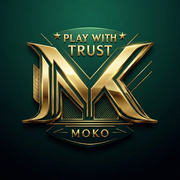
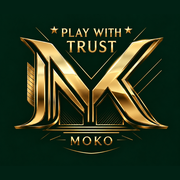
feat: 全18ページのロゴを正式コーポレートロゴ（2026-10-13 版）に差し替え
- ヘッダー左上のロゴを深緑背景版（logo-2026-10.webp）に変更
- 下層ページ題字帯のエンブレムを透過版（logo-mark-2026-10.webp）に変更
- 検索エンジン向け Organization の logo を logo-2026-10.png に更新
- favicon（48/96/192・ico）と apple-touch-icon を正式ロゴから再生成
- 旧ロゴ画像は参照を外して残置（画像の差し替え方針に従う）

diff --git a/index.html b/index.html
@@ -42,7 +42,7 @@
         "@id": "https://www.nishinomiyamoko.net/#organization",
         "name": "株式会社西宮モコ",
         "url": "https://www.nishinomiyamoko.net/",
-        "logo": "https://www.nishinomiyamoko.net/assets/img/logo-2026-09.png",
+        "logo": "https://www.nishinomiyamoko.net/assets/img/logo-2026-10.png",
         "description": "神戸市北区でパチンコホール2店舗（モコ鈴蘭台店・モコ田尾寺店）を運営。店舗を地域の防災拠点として運用し、データに基づく次世代のホール経営に取り組む。",
         "foundingDate": "1986-10-01",
         "address": {
@@ -77,7 +77,7 @@
     <!-- Header -->
     <header class="header">
         <div class="header-container">
-            <div class="logo"><a href="/"><img width="240" height="240" src="/assets/img/logo-2026-09.webp" alt="株式会社西宮モコ"></a>
+            <div class="logo"><a href="/"><img width="360" height="304" src="/assets/img/logo-2026-10.webp" alt="株式会社西宮モコ"></a>
                 <!-- 公式Xボタン（公開予約 x500 に連動。日時は /assets/js/main.js の PUBLISH_SCHEDULE で管理） -->
                 <a class="x-link" href="https://x.com/mokosuzurandai" target="_blank" rel="noopener noreferrer" aria-label="Xで最新情報（モコ鈴蘭台の公式X・新しいタブで開く）" hidden data-publish="x500"><svg class="x-link-logo" viewBox="0 0 24 24" aria-hidden="true" focusable="false"><path d="M18.244 2.25h3.308l-7.227 8.26 8.502 11.24H16.17l-5.214-6.817L4.99 21.75H1.68l7.73-8.835L1.254 2.25H8.08l4.713 6.231zm-1.161 17.52h1.833L7.084 4.126H5.117z"/></svg><span class="x-link-text">Xで最新情報</span></a>
             </div>

diff --git a/company/index.html b/company/index.html
@@ -39,7 +39,7 @@
         "@id": "https://www.nishinomiyamoko.net/#organization",
         "name": "株式会社西宮モコ",
         "url": "https://www.nishinomiyamoko.net/",
-        "logo": "https://www.nishinomiyamoko.net/assets/img/logo-2026-09.png",
+        "logo": "https://www.nishinomiyamoko.net/assets/img/logo-2026-10.png",
         "image": "https://www.nishinomiyamoko.net/assets/img/ogp-2026-09b.jpg",
         "foundingDate": "1986-10-01",
         "numberOfEmployees": { "@type": "QuantitativeValue", "value": 45 },
@@ -72,7 +72,7 @@
     <!-- Header -->
     <header class="header">
         <div class="header-container">
-            <div class="logo"><a href="/"><img width="240" height="240" src="/assets/img/logo-2026-09.webp" alt="株式会社西宮モコ"></a>
+            <div class="logo"><a href="/"><img width="360" height="304" src="/assets/img/logo-2026-10.webp" alt="株式会社西宮モコ"></a>
                 <!-- 公式Xボタン（公開予約 x500 に連動。日時は /assets/js/main.js の PUBLISH_SCHEDULE で管理） -->
                 <a class="x-link" href="https://x.com/mokosuzurandai" target="_blank" rel="noopener noreferrer" aria-label="Xで最新情報（モコ鈴蘭台の公式X・新しいタブで開く）" hidden data-publish="x500"><svg class="x-link-logo" viewBox="0 0 24 24" aria-hidden="true" focusable="false"><path d="M18.244 2.25h3.308l-7.227 8.26 8.502 11.24H16.17l-5.214-6.817L4.99 21.75H1.68l7.73-8.835L1.254 2.25H8.08l4.713 6.231zm-1.161 17.52h1.833L7.084 4.126H5.117z"/></svg><span class="x-link-text">Xで最新情報</span></a>
             </div>

diff --git a/about/index.html b/about/index.html
@@ -61,7 +61,7 @@
     <!-- Header -->
     <header class="header">
         <div class="header-container">
-            <div class="logo"><a href="/"><img width="240" height="240" src="/assets/img/logo-2026-09.webp" alt="株式会社西宮モコ"></a>
+            <div class="logo"><a href="/"><img width="360" height="304" src="/assets/img/logo-2026-10.webp" alt="株式会社西宮モコ"></a>
                 <!-- 公式Xボタン（公開予約 x500 に連動。日時は /assets/js/main.js の PUBLISH_SCHEDULE で管理） -->
                 <a class="x-link" href="https://x.com/mokosuzurandai" target="_blank" rel="noopener noreferrer" aria-label="Xで最新情報（モコ鈴蘭台の公式X・新しいタブで開く）" hidden data-publish="x500"><svg class="x-link-logo" viewBox="0 0 24 24" aria-hidden="true" focusable="false"><path d="M18.244 2.25h3.308l-7.227 8.26 8.502 11.24H16.17l-5.214-6.817L4.99 21.75H1.68l7.73-8.835L1.254 2.25H8.08l4.713 6.231zm-1.161 17.52h1.833L7.084 4.126H5.117z"/></svg><span class="x-link-text">Xで最新情報</span></a>
             </div>

diff --git a/business/index.html b/business/index.html
@@ -50,7 +50,7 @@
     <!-- Header -->
     <header class="header">
         <div class="header-container">
-            <div class="logo"><a href="/"><img width="240" height="240" src="/assets/img/logo-2026-09.webp" alt="株式会社西宮モコ"></a>
+            <div class="logo"><a href="/"><img width="360" height="304" src="/assets/img/logo-2026-10.webp" alt="株式会社西宮モコ"></a>
                 <!-- 公式Xボタン（公開予約 x500 に連動。日時は /assets/js/main.js の PUBLISH_SCHEDULE で管理） -->
                 <a class="x-link" href="https://x.com/mokosuzurandai" target="_blank" rel="noopener noreferrer" aria-label="Xで最新情報（モコ鈴蘭台の公式X・新しいタブで開く）" hidden data-publish="x500"><svg class="x-link-logo" viewBox="0 0 24 24" aria-hidden="true" focusable="false"><path d="M18.244 2.25h3.308l-7.227 8.26 8.502 11.24H16.17l-5.214-6.817L4.99 21.75H1.68l7.73-8.835L1.254 2.25H8.08l4.713 6.231zm-1.161 17.52h1.833L7.084 4.126H5.117z"/></svg><span class="x-link-text">Xで最新情報</span></a>
             </div>

diff --git a/community-disaster/index.html b/community-disaster/index.html
@@ -51,7 +51,7 @@
     <!-- Header -->
     <header class="header">
         <div class="header-container">
-            <div class="logo"><a href="/"><img width="240" height="240" src="/assets/img/logo-2026-09.webp" alt="株式会社西宮モコ"></a>
+            <div class="logo"><a href="/"><img width="360" height="304" src="/assets/img/logo-2026-10.webp" alt="株式会社西宮モコ"></a>
                 <!-- 公式Xボタン（公開予約 x500 に連動。日時は /assets/js/main.js の PUBLISH_SCHEDULE で管理） -->
                 <a class="x-link" href="https://x.com/mokosuzurandai" target="_blank" rel="noopener noreferrer" aria-label="Xで最新情報（モコ鈴蘭台の公式X・新しいタブで開く）" hidden data-publish="x500"><svg class="x-link-logo" viewBox="0 0 24 24" aria-hidden="true" focusable="false"><path d="M18.244 2.25h3.308l-7.227 8.26 8.502 11.24H16.17l-5.214-6.817L4.99 21.75H1.68l7.73-8.835L1.254 2.25H8.08l4.713 6.231zm-1.161 17.52h1.833L7.084 4.126H5.117z"/></svg><span class="x-link-text">Xで最新情報</span></a>
             </div>

diff --git a/community-disaster/infrastructure/index.html b/community-disaster/infrastructure/index.html
@@ -50,7 +50,7 @@
     <!-- Header -->
     <header class="header">
         <div class="header-container">
-            <div class="logo"><a href="/"><img width="240" height="240" src="/assets/img/logo-2026-09.webp" alt="株式会社西宮モコ"></a>
+            <div class="logo"><a href="/"><img width="360" height="304" src="/assets/img/logo-2026-10.webp" alt="株式会社西宮モコ"></a>
                 <!-- 公式Xボタン（公開予約 x500 に連動。日時は /assets/js/main.js の PUBLISH_SCHEDULE で管理） -->
                 <a class="x-link" href="https://x.com/mokosuzurandai" target="_blank" rel="noopener noreferrer" aria-label="Xで最新情報（モコ鈴蘭台の公式X・新しいタブで開く）" hidden data-publish="x500"><svg class="x-link-logo" viewBox="0 0 24 24" aria-hidden="true" focusable="false"><path d="M18.244 2.25h3.308l-7.227 8.26 8.502 11.24H16.17l-5.214-6.817L4.99 21.75H1.68l7.73-8.835L1.254 2.25H8.08l4.713 6.231zm-1.161 17.52h1.833L7.084 4.126H5.117z"/></svg><span class="x-link-text">Xで最新情報</span></a>
             </div>

diff --git a/community-disaster/partnership/index.html b/community-disaster/partnership/index.html
@@ -50,7 +50,7 @@
     <!-- Header -->
     <header class="header">
         <div class="header-container">
-            <div class="logo"><a href="/"><img width="240" height="240" src="/assets/img/logo-2026-09.webp" alt="株式会社西宮モコ"></a>
+            <div class="logo"><a href="/"><img width="360" height="304" src="/assets/img/logo-2026-10.webp" alt="株式会社西宮モコ"></a>
                 <!-- 公式Xボタン（公開予約 x500 に連動。日時は /assets/js/main.js の PUBLISH_SCHEDULE で管理） -->
                 <a class="x-link" href="https://x.com/mokosuzurandai" target="_blank" rel="noopener noreferrer" aria-label="Xで最新情報（モコ鈴蘭台の公式X・新しいタブで開く）" hidden data-publish="x500"><svg class="x-link-logo" viewBox="0 0 24 24" aria-hidden="true" focusable="false"><path d="M18.244 2.25h3.308l-7.227 8.26 8.502 11.24H16.17l-5.214-6.817L4.99 21.75H1.68l7.73-8.835L1.254 2.25H8.08l4.713 6.231zm-1.161 17.52h1.833L7.084 4.126H5.117z"/></svg><span class="x-link-text">Xで最新情報</span></a>
             </div>

diff --git a/community-disaster/philosophy/index.html b/community-disaster/philosophy/index.html
@@ -50,7 +50,7 @@
     <!-- Header -->
     <header class="header">
         <div class="header-container">
-            <div class="logo"><a href="/"><img width="240" height="240" src="/assets/img/logo-2026-09.webp" alt="株式会社西宮モコ"></a>
+            <div class="logo"><a href="/"><img width="360" height="304" src="/assets/img/logo-2026-10.webp" alt="株式会社西宮モコ"></a>
                 <!-- 公式Xボタン（公開予約 x500 に連動。日時は /assets/js/main.js の PUBLISH_SCHEDULE で管理） -->
                 <a class="x-link" href="https://x.com/mokosuzurandai" target="_blank" rel="noopener noreferrer" aria-label="Xで最新情報（モコ鈴蘭台の公式X・新しいタブで開く）" hidden data-publish="x500"><svg class="x-link-logo" viewBox="0 0 24 24" aria-hidden="true" focusable="false"><path d="M18.244 2.25h3.308l-7.227 8.26 8.502 11.24H16.17l-5.214-6.817L4.99 21.75H1.68l7.73-8.835L1.254 2.25H8.08l4.713 6.231zm-1.161 17.52h1.833L7.084 4.126H5.117z"/></svg><span class="x-link-text">Xで最新情報</span></a>
             </div>

diff --git a/community-disaster/responsible/index.html b/community-disaster/responsible/index.html
@@ -50,7 +50,7 @@
     <!-- Header -->
     <header class="header">
         <div class="header-container">
-            <div class="logo"><a href="/"><img width="240" height="240" src="/assets/img/logo-2026-09.webp" alt="株式会社西宮モコ"></a>
+            <div class="logo"><a href="/"><img width="360" height="304" src="/assets/img/logo-2026-10.webp" alt="株式会社西宮モコ"></a>
                 <!-- 公式Xボタン（公開予約 x500 に連動。日時は /assets/js/main.js の PUBLISH_SCHEDULE で管理） -->
                 <a class="x-link" href="https://x.com/mokosuzurandai" target="_blank" rel="noopener noreferrer" aria-label="Xで最新情報（モコ鈴蘭台の公式X・新しいタブで開く）" hidden data-publish="x500"><svg class="x-link-logo" viewBox="0 0 24 24" aria-hidden="true" focusable="false"><path d="M18.244 2.25h3.308l-7.227 8.26 8.502 11.24H16.17l-5.214-6.817L4.99 21.75H1.68l7.73-8.835L1.254 2.25H8.08l4.713 6.231zm-1.161 17.52h1.833L7.084 4.126H5.117z"/></svg><span class="x-link-text">Xで最新情報</span></a>
             </div>

diff --git a/community-disaster/training/index.html b/community-disaster/training/index.html
@@ -50,7 +50,7 @@
     <!-- Header -->
     <header class="header">
         <div class="header-container">
-            <div class="logo"><a href="/"><img width="240" height="240" src="/assets/img/logo-2026-09.webp" alt="株式会社西宮モコ"></a>
+            <div class="logo"><a href="/"><img width="360" height="304" src="/assets/img/logo-2026-10.webp" alt="株式会社西宮モコ"></a>
                 <!-- 公式Xボタン（公開予約 x500 に連動。日時は /assets/js/main.js の PUBLISH_SCHEDULE で管理） -->
                 <a class="x-link" href="https://x.com/mokosuzurandai" target="_blank" rel="noopener noreferrer" aria-label="Xで最新情報（モコ鈴蘭台の公式X・新しいタブで開く）" hidden data-publish="x500"><svg class="x-link-logo" viewBox="0 0 24 24" aria-hidden="true" focusable="false"><path d="M18.244 2.25h3.308l-7.227 8.26 8.502 11.24H16.17l-5.214-6.817L4.99 21.75H1.68l7.73-8.835L1.254 2.25H8.08l4.713 6.231zm-1.161 17.52h1.833L7.084 4.126H5.117z"/></svg><span class="x-link-text">Xで最新情報</span></a>
             </div>

diff --git a/contact/index.html b/contact/index.html
@@ -50,7 +50,7 @@
     <!-- Header -->
     <header class="header">
         <div class="header-container">
-            <div class="logo"><a href="/"><img width="240" height="240" src="/assets/img/logo-2026-09.webp" alt="株式会社西宮モコ"></a>
+            <div class="logo"><a href="/"><img width="360" height="304" src="/assets/img/logo-2026-10.webp" alt="株式会社西宮モコ"></a>
                 <!-- 公式Xボタン（公開予約 x500 に連動。日時は /assets/js/main.js の PUBLISH_SCHEDULE で管理） -->
                 <a class="x-link" href="https://x.com/mokosuzurandai" target="_blank" rel="noopener noreferrer" aria-label="Xで最新情報（モコ鈴蘭台の公式X・新しいタブで開く）" hidden data-publish="x500"><svg class="x-link-logo" viewBox="0 0 24 24" aria-hidden="true" focusable="false"><path d="M18.244 2.25h3.308l-7.227 8.26 8.502 11.24H16.17l-5.214-6.817L4.99 21.75H1.68l7.73-8.835L1.254 2.25H8.08l4.713 6.231zm-1.161 17.52h1.833L7.084 4.126H5.117z"/></svg><span class="x-link-text">Xで最新情報</span></a>
             </div>

diff --git a/news/index.html b/news/index.html
@@ -50,7 +50,7 @@
     <!-- Header -->
     <header class="header">
         <div class="header-container">
-            <div class="logo"><a href="/"><img width="240" height="240" src="/assets/img/logo-2026-09.webp" alt="株式会社西宮モコ"></a>
+            <div class="logo"><a href="/"><img width="360" height="304" src="/assets/img/logo-2026-10.webp" alt="株式会社西宮モコ"></a>
                 <!-- 公式Xボタン（公開予約 x500 に連動。日時は /assets/js/main.js の PUBLISH_SCHEDULE で管理） -->
                 <a class="x-link" href="https://x.com/mokosuzurandai" target="_blank" rel="noopener noreferrer" aria-label="Xで最新情報（モコ鈴蘭台の公式X・新しいタブで開く）" hidden data-publish="x500"><svg class="x-link-logo" viewBox="0 0 24 24" aria-hidden="true" focusable="false"><path d="M18.244 2.25h3.308l-7.227 8.26 8.502 11.24H16.17l-5.214-6.817L4.99 21.75H1.68l7.73-8.835L1.254 2.25H8.08l4.713 6.231zm-1.161 17.52h1.833L7.084 4.126H5.117z"/></svg><span class="x-link-text">Xで最新情報</span></a>
             </div>
